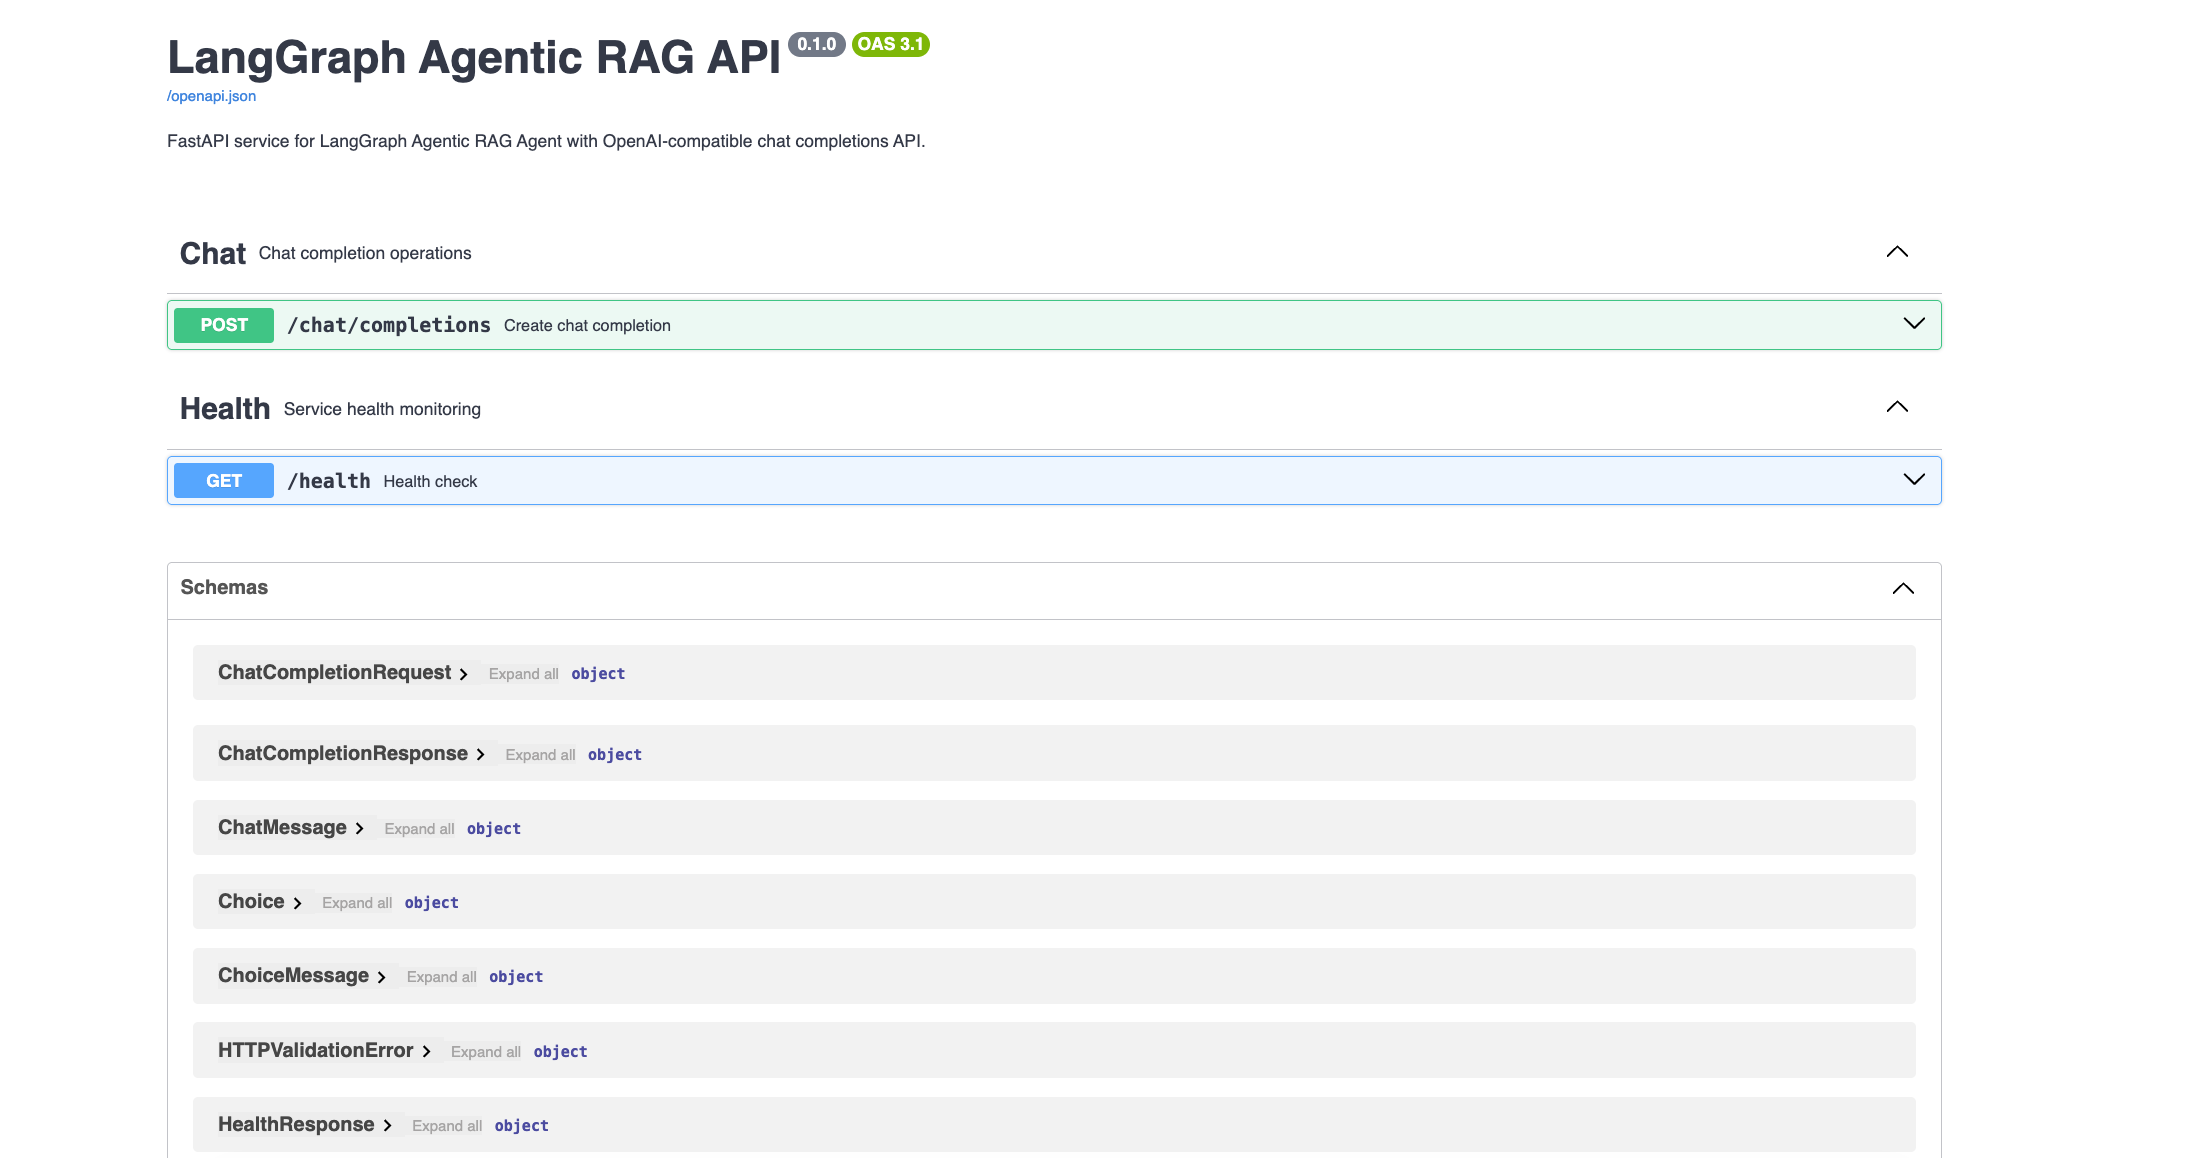
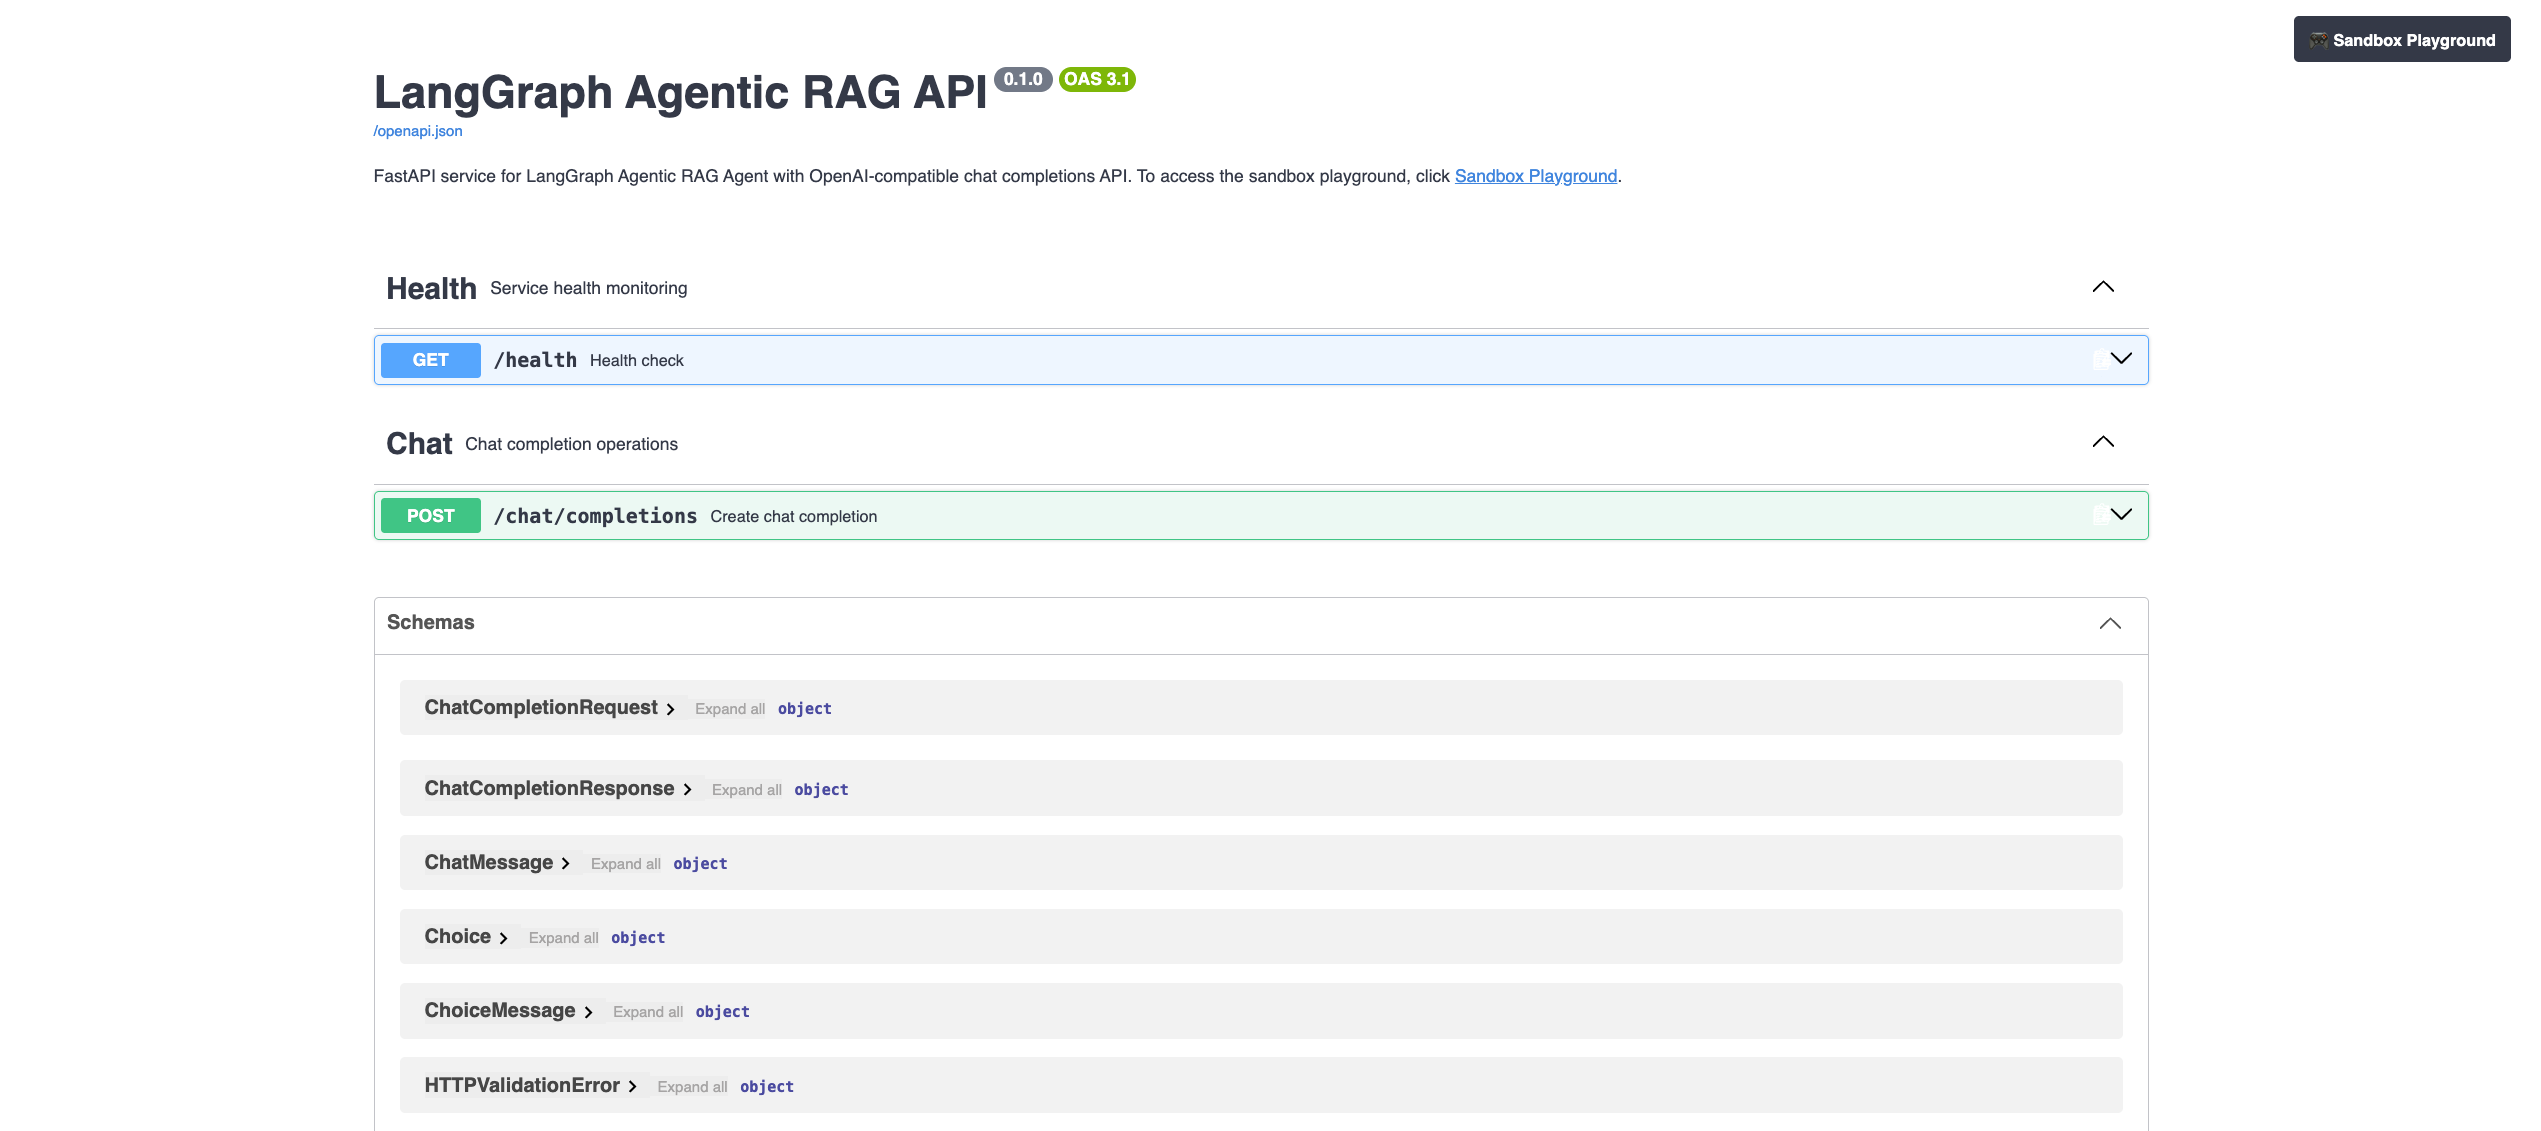
fix: Update swagger

diff --git a/agents/langgraph/templates/agentic_rag/main.py b/agents/langgraph/templates/agentic_rag/main.py
@@ -20,13 +20,16 @@ except ImportError:
     pass  # pysqlite3-binary not available, continue with system sqlite3
 
 import openai
+import requests as http_requests
 from agentic_rag.agent import get_graph_closure
 from agentic_rag.tracing import enable_tracing
 from fastapi import FastAPI, HTTPException
+from fastapi.openapi.docs import get_swagger_ui_html
 from fastapi.responses import (
     FileResponse,
     HTMLResponse,
     JSONResponse,
+    RedirectResponse,
     StreamingResponse,
 )
 from langchain_core.exceptions import OutputParserException
@@ -175,13 +178,81 @@ async def lifespan(app: FastAPI) -> AsyncIterator[None]:
 # Create FastAPI app
 app = FastAPI(
     title="LangGraph Agentic RAG API",
-    description="FastAPI service for LangGraph Agentic RAG Agent with OpenAI-compatible chat completions API.",
+    description=(
+        "FastAPI service for LangGraph Agentic RAG Agent with "
+        "OpenAI-compatible chat completions API. "
+        "To access the sandbox playground, click "
+        "[Sandbox Playground](/playground)."
+    ),
+    docs_url=None,
     lifespan=lifespan,
     openapi_tags=[
-        {"name": "Chat", "description": "Chat completion operations"},
         {"name": "Health", "description": "Service health monitoring"},
+        {"name": "Chat", "description": "Chat completion operations"},
     ],
 )
+
+
+_PLAYGROUND_URL = getenv("PLAYGROUND_URL", "http://localhost:5002").rstrip("/")
+_SANDBOX_MODE = bool(getenv("K8S_REVIEWER_TOKEN", "").strip())
+_PLAYGROUND_TOKEN = getenv("PLAYGROUND_TOKEN", "").strip()
+
+
+@app.get(
+    "/docs",
+    include_in_schema=False,
+    response_class=HTMLResponse,
+)
+async def custom_swagger_ui():
+    """Serve Swagger UI with a shortcut to the sandbox playground."""
+    swagger_html = get_swagger_ui_html(
+        openapi_url=app.openapi_url,
+        title=f"{app.title} - Swagger UI",
+        swagger_favicon_url="https://fastapi.tiangolo.com/img/favicon.png",
+    )
+    html = swagger_html.body.decode("utf-8")
+    shortcut = (
+        '<a href="/playground" class="sandbox-playground-link" '
+        'title="Open Sandbox Playground">🎮 Sandbox Playground</a>'
+    )
+    styles = """
+    <style>
+      .sandbox-playground-link {
+        position: fixed;
+        top: 18px;
+        right: 24px;
+        z-index: 10;
+        padding: 8px 12px;
+        border-radius: 4px;
+        color: #fff;
+        background: #3b4151;
+        font: 600 13px sans-serif;
+        text-decoration: none;
+      }
+      .sandbox-playground-link:hover { background: #2f3545; }
+    </style>
+    """
+    html = html.replace("<body>", f"<body>{styles}{shortcut}", 1)
+    return HTMLResponse(html)
+
+
+@app.get(
+    "/playground",
+    summary="Open the sandbox playground",
+    description=(
+        "Redirects to the local sandbox playground UI. Start it with "
+        "`make playground-sandbox`; it obtains the ServiceAccount token "
+        "automatically through `oc`."
+    ),
+    include_in_schema=False,
+    tags=["Playground"],
+    responses={307: {"description": "Redirect to the sandbox playground UI"}},
+)
+async def playground_redirect():
+    """Serve the sandbox playground or redirect to the local fallback UI."""
+    if _SANDBOX_MODE:
+        return FileResponse(_SANDBOX_PLAYGROUND_HTML)
+    return RedirectResponse(url=_PLAYGROUND_URL)
 
 
 def _auth_enabled() -> bool:
@@ -533,6 +604,7 @@ async def health():
 # ── Playground UI ────────────────────────────────────────────────────────────
 _BASE_DIR = Path(__file__).resolve().parent
 _PLAYGROUND_HTML = _BASE_DIR / "playground" / "templates" / "index.html"
+_SANDBOX_PLAYGROUND_HTML = _BASE_DIR / "playground-sandbox" / "templates" / "index.html"
 # In Docker the images are copied to /opt/app-root/src/images; locally they live at the repo root
 _IMAGES_DIR = _BASE_DIR / "images"
 if not _IMAGES_DIR.is_dir():
@@ -542,9 +614,64 @@ if not _IMAGES_DIR.is_dir():
 @app.get("/", response_class=HTMLResponse, include_in_schema=False)
 async def playground():
     """Serve the playground chat UI."""
+    if _SANDBOX_MODE:
+        return FileResponse(_SANDBOX_PLAYGROUND_HTML)
     if _auth_enabled():
         raise HTTPException(status_code=404, detail="Not found")
     return FileResponse(_PLAYGROUND_HTML)
+
+
+@app.get("/api/health", include_in_schema=False)
+async def playground_health():
+    """Expose the agent health response expected by the sandbox UI."""
+    return await health()
+
+
+@app.post("/api/chat", include_in_schema=False)
+async def playground_chat(request: ChatCompletionRequest):
+    """Proxy sandbox UI requests with the server-side ServiceAccount token."""
+    if not (_SANDBOX_MODE and _PLAYGROUND_TOKEN):
+        raise HTTPException(
+            status_code=503, detail="Sandbox playground is not configured"
+        )
+
+    payload = request.model_dump(exclude_none=True)
+    payload["stream"] = True
+
+    def event_generator():
+        try:
+            with http_requests.post(
+                "http://127.0.0.1:8080/chat/completions",
+                json=payload,
+                headers={"X-Api-Key": _PLAYGROUND_TOKEN},
+                stream=True,
+                timeout=(10, 300),
+            ) as response:
+                if response.status_code != 200:
+                    error = json.dumps(
+                        {
+                            "error": {
+                                "message": f"Agent returned {response.status_code}: {response.text[:500]}"
+                            }
+                        }
+                    )
+                    yield f"data: {error}\n\n"
+                    return
+                for chunk in response.iter_content(
+                    chunk_size=None, decode_unicode=True
+                ):
+                    if chunk:
+                        yield chunk
+        except http_requests.RequestException as exc:
+            logger.exception("Sandbox playground proxy request failed")
+            error = json.dumps({"error": {"message": str(exc)}})
+            yield f"data: {error}\n\n"
+
+    return StreamingResponse(
+        event_generator(),
+        media_type="text/event-stream",
+        headers={"Cache-Control": "no-cache", "X-Accel-Buffering": "no"},
+    )
 
 
 @app.get("/images/{filename:path}", include_in_schema=False)

diff --git a/docs/agentic-rag-openshell-sandbox.md b/docs/agentic-rag-openshell-sandbox.md
@@ -101,7 +101,7 @@ CONTAINER_IMAGE=image-registry.openshift-image-registry.svc:5000/<namespace>/ope
 # openshell-agentic-rag-1   Source   Docker   Complete   2m
 ```
 
-## Step 4 — Load documents into Milvus
+## Step 4 — Load documents into Milvus (optional)
 
 ***NOTE***: Skip this step if `.env` already has a valid `MILVUS_COLLECTION_NAME`.
 
@@ -220,32 +220,32 @@ https://default--rag-sandbox--agent.openshell.<APPS_DOMAIN>/docs
 The `/docs` and `/health` endpoints are unauthenticated — only
 `/chat/completions` requires an API key.
 
+Swagger UI includes a **Sandbox Playground** shortcut and an instruction at the
+top of the page. In the sandbox image, both the root URL (`/`) and `/playground`
+serve the sandbox Playground directly, using the same public Route as Swagger.
+
+The embedded Playground uses the short-lived ServiceAccount token on the server
+side, so the user does not need to enter a token in the browser.
+
 ---
 
-## Step 7 — Interactive Playground (Optional)
+## Step 7 — Interactive Playground
 
-For a better experience, use the web-based playground UI instead of curl:
+`make deploy-openshell` starts the agent and exposes both Swagger UI and the
+sandbox Playground through the same Route. After deployment, open:
 
-```bash
-make playground-sandbox
+```text
+https://default--rag-sandbox--agent.openshell.<APPS_DOMAIN>/
 ```
 
-This starts a Flask web UI on <http://localhost:5002> that:
+The Playground:
 
-- Auto-fetches the agent URL from the OpenShift Route
-- Auto-fetches the SA token from the `agent-client-token` Secret
+- Uses the server-side ServiceAccount token automatically
 - Provides a chat interface with streaming responses
 - Maintains conversation history across messages
 - Collapses reasoning steps and retrieved context into expandable sections
 
 ![Sandbox Playground](../images/sandbox_playground.png)
-
-**Requirements:**
-
-- `oc` CLI logged into OpenShift with access to `openshell` namespace
-- Flask (already in dependencies)
-
-To override auto-detection, set `AGENT_URL` and `AGENT_TOKEN` environment variables before running.
 
 ---
 
@@ -289,6 +289,11 @@ sandbox image was built, then rebuild and redeploy.
 **Embedding model not in allowed list**: Model provider configuration may have empty allowed models list. Verify provider config includes the model name.
 
 **openShell CLI connection issues**: If `openshell` commands fail with TLS errors, refresh client certificates with `make refresh-certs`.
+
+**Playground is not available at `/`**: The embedded Playground requires a
+recent sandbox image. Rebuild and redeploy with `make build-openshell` and
+`make deploy-openshell`. As a temporary fallback for an older image, run
+`make playground-sandbox` locally.
 
 ## Cleanup
 
